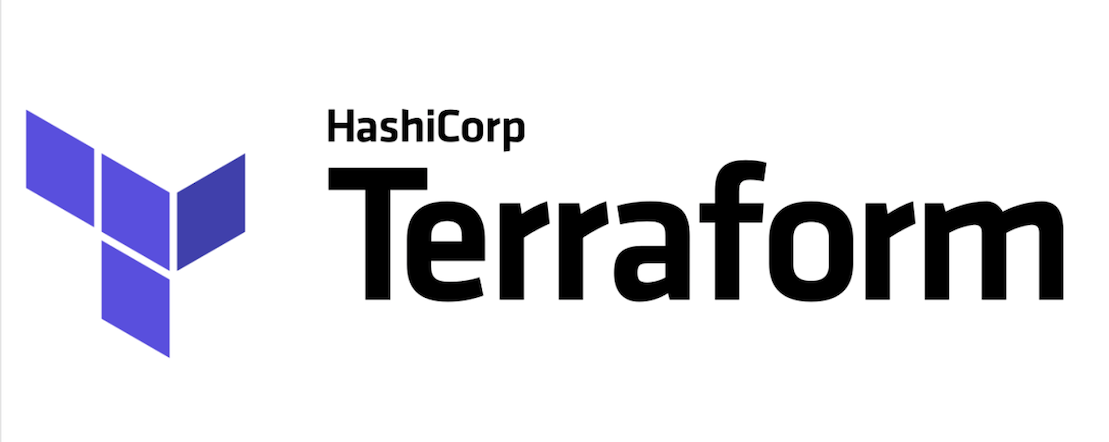
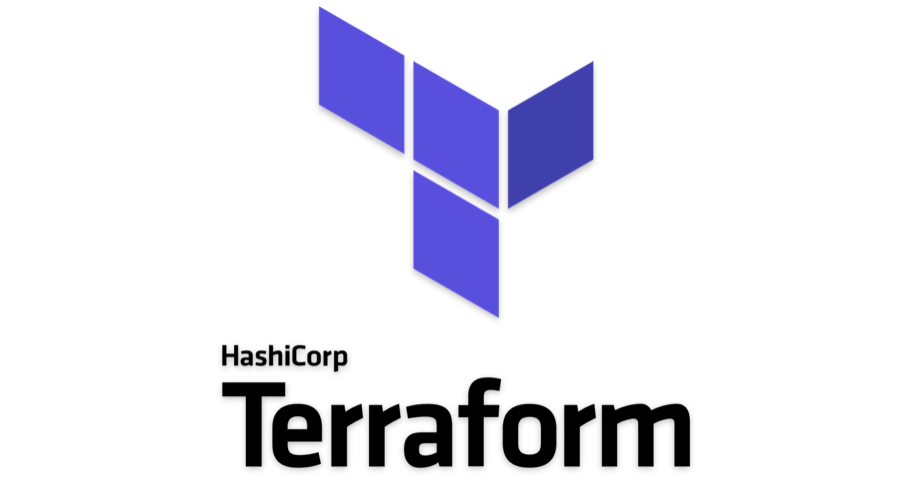
tuesday - edit image size

Changed region(s): [[0.2451, 0.0, 0.9803, 0.7353], [0.2451, 0.7353, 0.7659, 0.9412], [0.0, 0.2353, 0.2451, 0.8235]]

diff --git a/_posts/2024-05-04-jekyll.md b/_posts/2024-05-04-jekyll.md
@@ -51,7 +51,7 @@ upload files into assets folder and reference them in the post like this
 
 #### Links
 
-- [Github Docs - Add Content to Pages](https://docs.github.com/en/pages/setting-up-a-github-pages-site-with-jekyll/adding-content-to-your-github-pages-site-using-jekyll())
+- [Github Docs - Add Content to Pages](https://docs.github.com/en/pages/setting-up-a-github-pages-site-with-jekyll/)
 - [Jekyll Docs - Posts](https://jekyllrb.com/docs/posts/)
 - [YT Meet Jekyll - The Static Site Generator](https://www.youtube.com/watch?v=F8iOU1ci19Q)
 - [Reference Blog](https://technotim.live)
